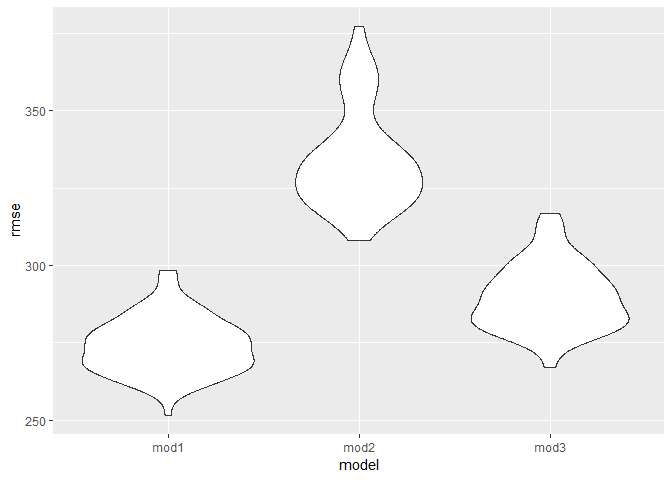
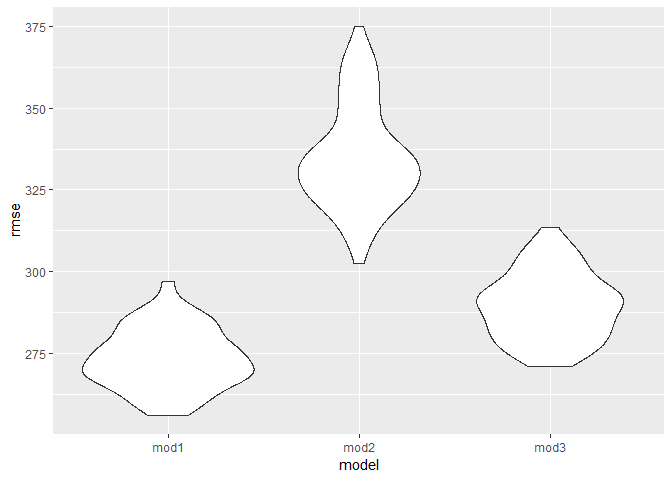
small changes

diff --git a/Homework6.md b/Homework6.md
@@ -184,6 +184,8 @@ allcity%>%
 
 ![](Homework6_files/figure-markdown_github/unnamed-chunk-1-1.png)
 
+-   I ordered the graph by adjusted odds ratio, and found that Boston had the lowest odds ratio and Tampa had the highest. In most cities, the odds ratios are lower than 1, which means with other variables fixed, the odds of homicide among white people is lower than non-white people in most cities (except Birmingham and Tampa).In Birmingham and Tampa, the odds of homicide among white people is higher than non-white people.
+
 ``` r
 library(tidyverse)
 library(modelr)
@@ -462,39 +464,27 @@ cv_df =
   mutate(train = map(train, as_tibble),
          test = map(test, as_tibble))%>%
   mutate(mod1 = map(train, ~lm(bwt~babysex+bhead+blength+delwt+fincome+gaweeks+mheight+mrace+parity+ppwt+smoken, data = .x)),
-         mod2 = map(train, ~lm(bwt ~ blength+gaweeks, data = .x)),
+         mod2 = map(train, ~lm(bwt~blength+gaweeks, data = .x)),
          mod3 = map(train, ~lm(bwt~bhead+blength+babysex+bhead*blength+bhead*babysex+blength*babysex+bhead*babysex*blength,data=.x))) %>% 
   mutate(rmse_mod1 = map2_dbl(mod1, test, ~rmse(model = .x, data = .y)),
          rmse_mod2 = map2_dbl(mod2, test, ~rmse(model = .x, data = .y)),
          rmse_mod3 = map2_dbl(mod3, test, ~rmse(model = .x, data = .y)))
-```
-
-    ## Warning in predict.lm(model, data): prediction from a rank-deficient fit
-    ## may be misleading
-
-    ## Warning in predict.lm(model, data): prediction from a rank-deficient fit
-    ## may be misleading
-
-    ## Warning in predict.lm(model, data): prediction from a rank-deficient fit
-    ## may be misleading
-
-``` r
 cv_df
 ```
 
     ## # A tibble: 100 x 9
     ##    train    test     .id   mod1  mod2  mod3  rmse_mod1 rmse_mod2 rmse_mod3
     ##    <list>   <list>   <chr> <lis> <lis> <lis>     <dbl>     <dbl>     <dbl>
-    ##  1 <tibble~ <tibble~ 001   <S3:~ <S3:~ <S3:~      268.      320.      278.
-    ##  2 <tibble~ <tibble~ 002   <S3:~ <S3:~ <S3:~      274.      318.      292.
-    ##  3 <tibble~ <tibble~ 003   <S3:~ <S3:~ <S3:~      287.      329.      298.
-    ##  4 <tibble~ <tibble~ 004   <S3:~ <S3:~ <S3:~      264.      312.      276.
-    ##  5 <tibble~ <tibble~ 005   <S3:~ <S3:~ <S3:~      275.      334.      289.
-    ##  6 <tibble~ <tibble~ 006   <S3:~ <S3:~ <S3:~      272.      342.      291.
-    ##  7 <tibble~ <tibble~ 007   <S3:~ <S3:~ <S3:~      293.      377.      312.
-    ##  8 <tibble~ <tibble~ 008   <S3:~ <S3:~ <S3:~      270.      323.      282.
-    ##  9 <tibble~ <tibble~ 009   <S3:~ <S3:~ <S3:~      276.      355.      293.
-    ## 10 <tibble~ <tibble~ 010   <S3:~ <S3:~ <S3:~      260.      308.      268.
+    ##  1 <tibble~ <tibble~ 001   <S3:~ <S3:~ <S3:~      277.      355.      293.
+    ##  2 <tibble~ <tibble~ 002   <S3:~ <S3:~ <S3:~      269.      317.      284.
+    ##  3 <tibble~ <tibble~ 003   <S3:~ <S3:~ <S3:~      271.      321.      281.
+    ##  4 <tibble~ <tibble~ 004   <S3:~ <S3:~ <S3:~      263.      325.      280.
+    ##  5 <tibble~ <tibble~ 005   <S3:~ <S3:~ <S3:~      259.      312.      276.
+    ##  6 <tibble~ <tibble~ 006   <S3:~ <S3:~ <S3:~      268.      327.      288.
+    ##  7 <tibble~ <tibble~ 007   <S3:~ <S3:~ <S3:~      286.      370.      309.
+    ##  8 <tibble~ <tibble~ 008   <S3:~ <S3:~ <S3:~      282.      362.      305.
+    ##  9 <tibble~ <tibble~ 009   <S3:~ <S3:~ <S3:~      269.      328.      287.
+    ## 10 <tibble~ <tibble~ 010   <S3:~ <S3:~ <S3:~      273.      326.      289.
     ## # ... with 90 more rows
 
 ``` r
